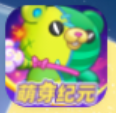
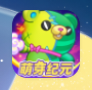
Fix coord of main game

diff --git a/running.py b/running.py
@@ -660,6 +660,7 @@ class MainRun:
     def restart_game(self):
         close_name = self.smart_grab.config.get_coord("close_game")
         close_announce = self.smart_grab.config.get_coord("close_announce")
+        main_game = self.smart_grab.config.get_coord("main_game")
         start_game = self.smart_grab.config.get_coord("start_game")
         setup = self.smart_grab.config.get_coord("setup")
         setup_confirm = self.smart_grab.config.get_coord("setup_confirm")
@@ -678,8 +679,7 @@ class MainRun:
         log("Game button shows up now!")
 
         while single_find("ClickGame"):
-            center = get_center("ClickGame", "Single")
-            click_at(center.x / self.sft, center.y / self.sft)
+            click_at(main_game[0], main_game[1])
             time.sleep(2)
             log("Game button clicked!")
 
